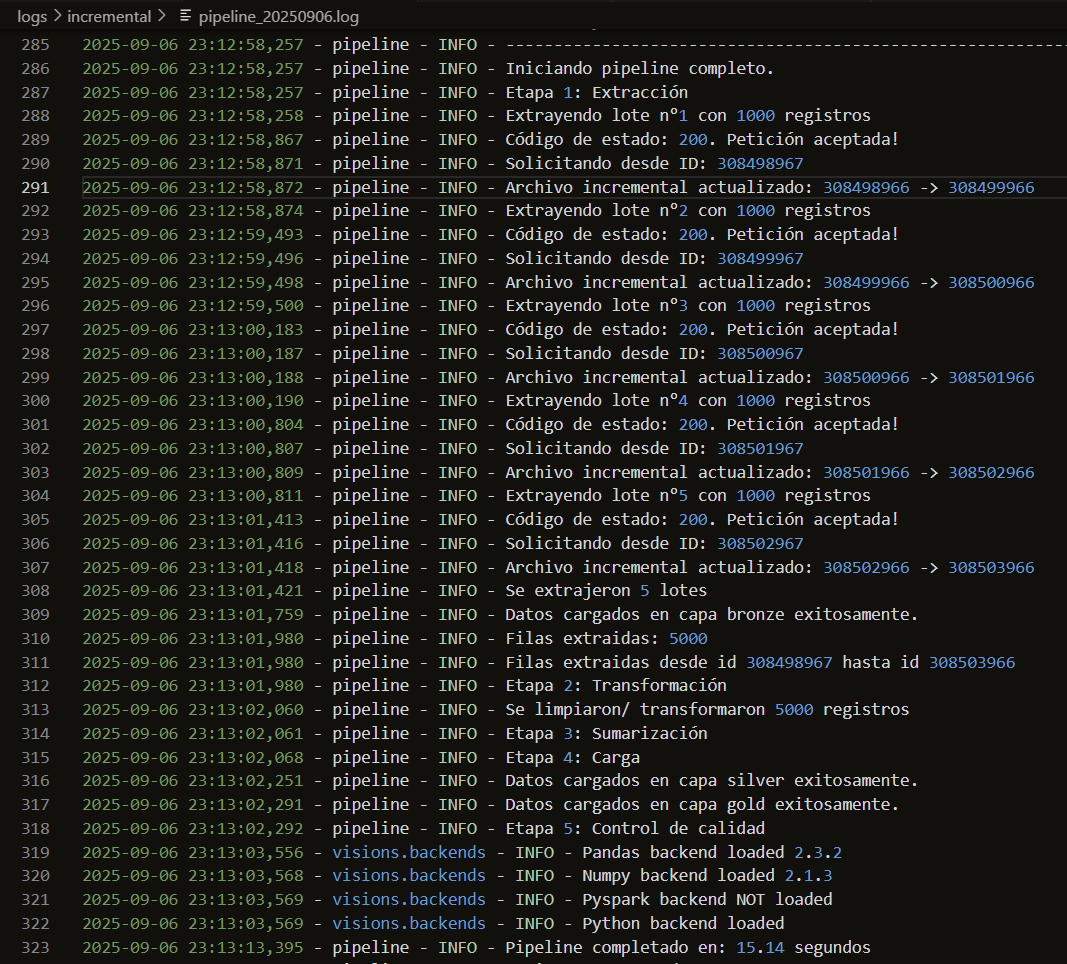
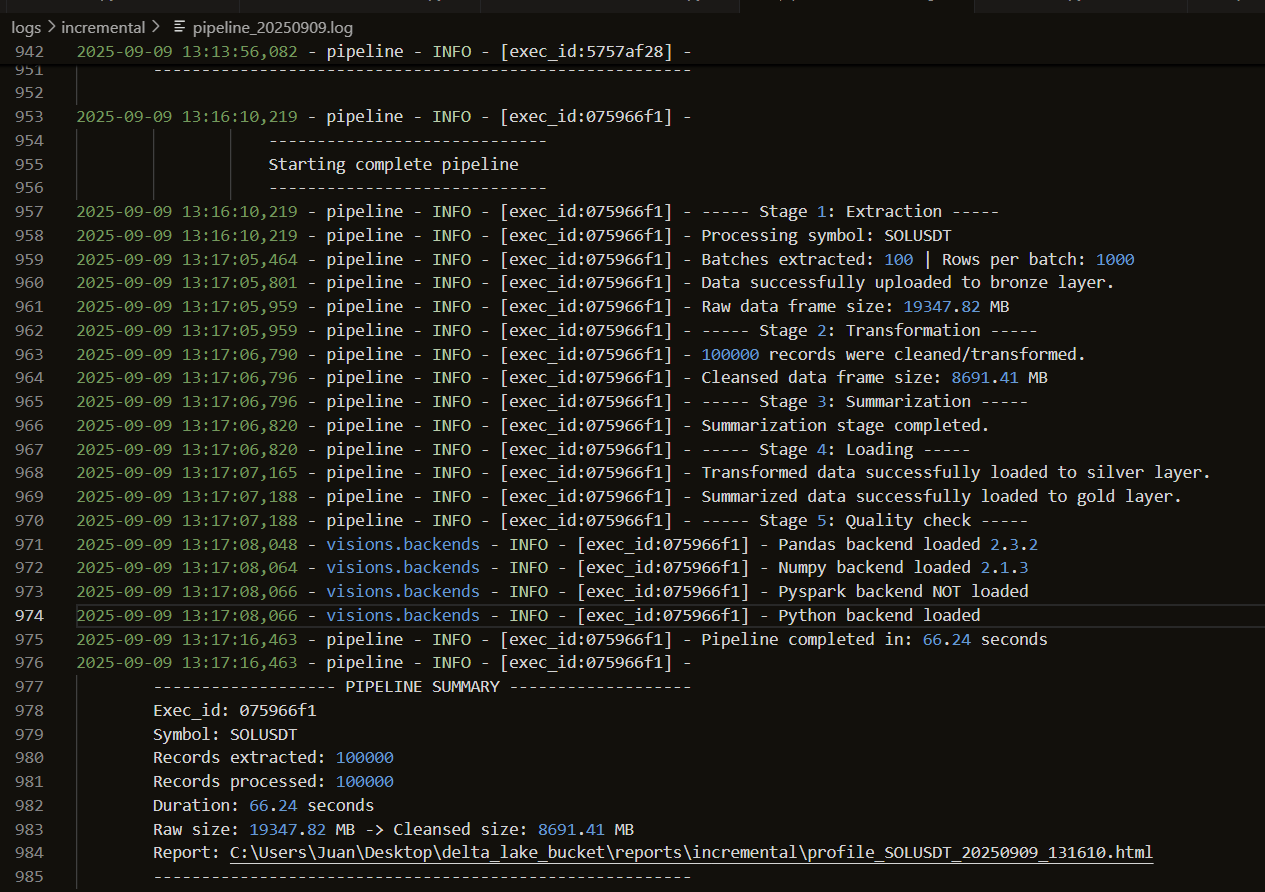
feat: README improvement

Changed region(s): [[0.0, 0.0, 0.9897, 1.0], [0.8969, 0.3632, 0.9588, 0.3935]]

diff --git a/README.md b/README.md
@@ -84,8 +84,7 @@ def setup_logging(tipo_extraccion:str, level:int=logging.INFO) -> None:
 ```
 ### Logging sample
 
-![logs1](https://github.com/Jpcuomo/1st-delta-lake-pipeline/blob/feature/imagenes/log1.png)
-![logs2](https://github.com/Jpcuomo/1st-delta-lake-pipeline/blob/feature/imagenes/logs2.png)
+![logs1](https://github.com/Jpcuomo/1st-delta-lake-pipeline/blob/feature/imagenes/log.png)
 
 ### Data Quality & Performance Optimization
 
